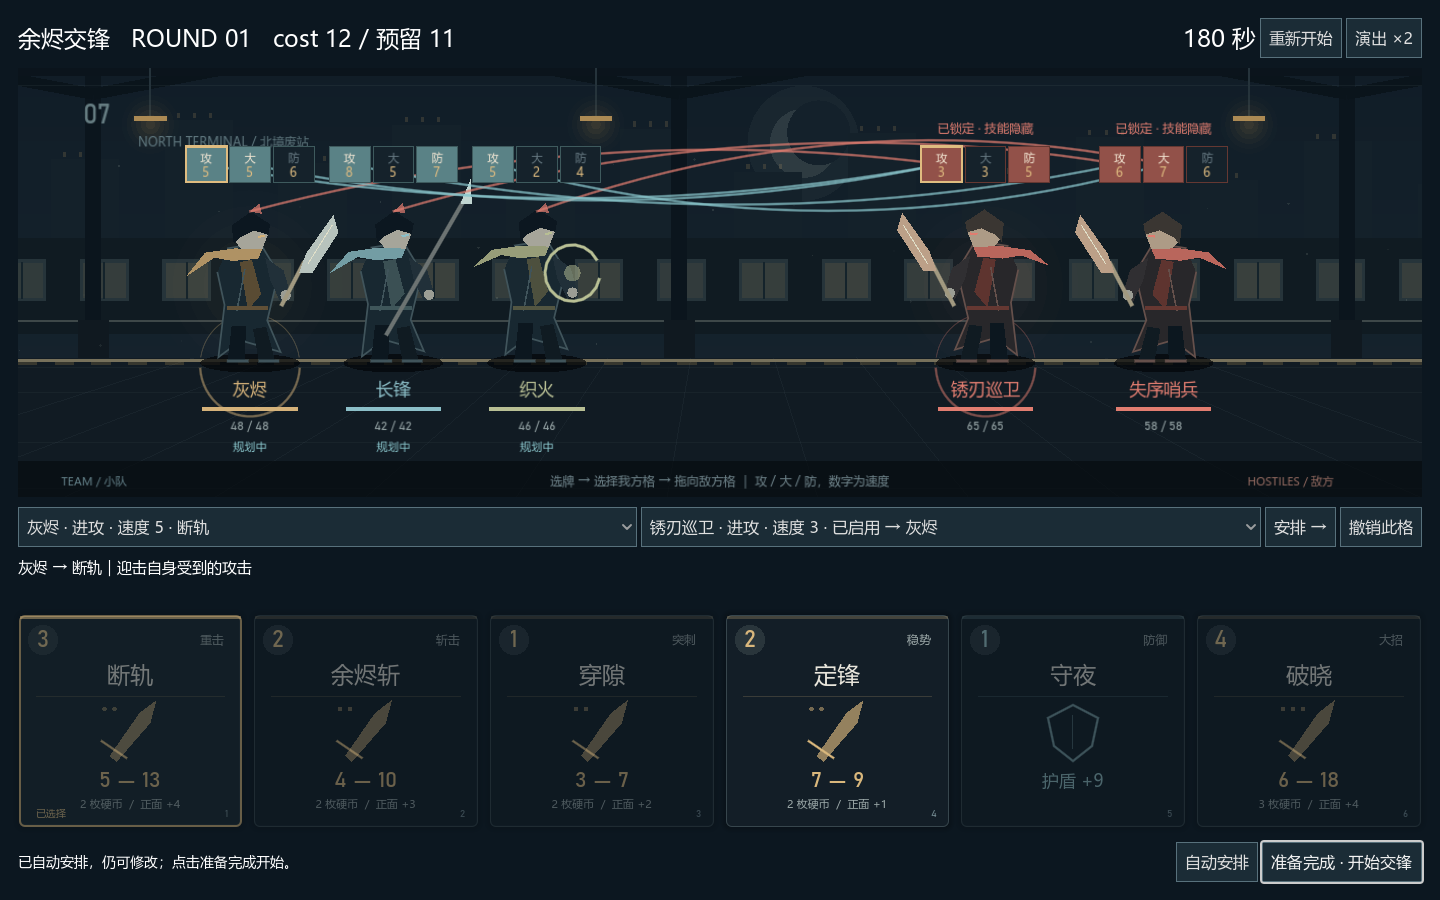
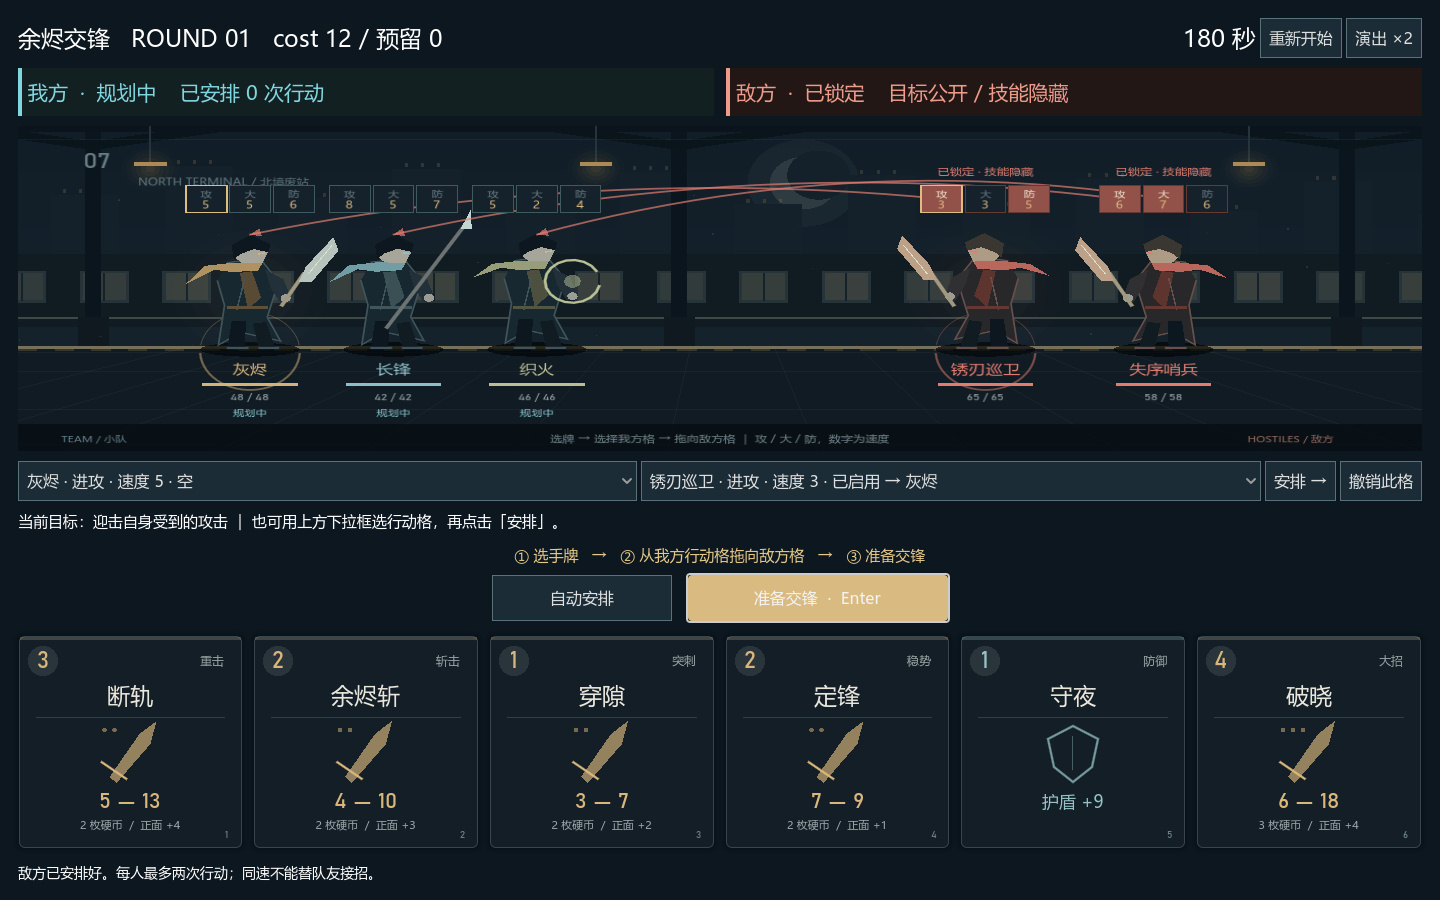
ui: 突出敌我状态、增加操作引导并居中交锋按钮

diff --git a/docs/任务记录/战斗状态栏与引导调整.md b/docs/任务记录/战斗状态栏与引导调整.md
@@ -1,0 +1,11 @@
+# 战斗状态栏与引导调整
+
+目标：突出敌我准备状态，增加常驻操作引导；自动安排与准备交锋移到卡片上方居中。
+
+方案：战场上方使用蓝色我方/红色敌方状态面板，显示规划、锁定、交锋、结果；卡片上方显示三步引导与居中按钮。沿用容器缩放，不改规则和计时。
+
+验收：运行既有实机输入测试；检查 1440×900 与 1000×650 下布局、初始状态、安排后状态与战斗结果。
+
+状态：本地完成，发布至 main。
+
+验收：1440×900 与 1000×650 实际截图检查通过，状态面板和居中按钮完整可见；既有实机流程（键盘选牌、拖箭头、撤销、超时锁定、结算及重开）在两个尺寸均通过。规则未改动。发布范围：界面脚本、预览图与本记录；基于远端最新 main 更新，保留其他文件。
